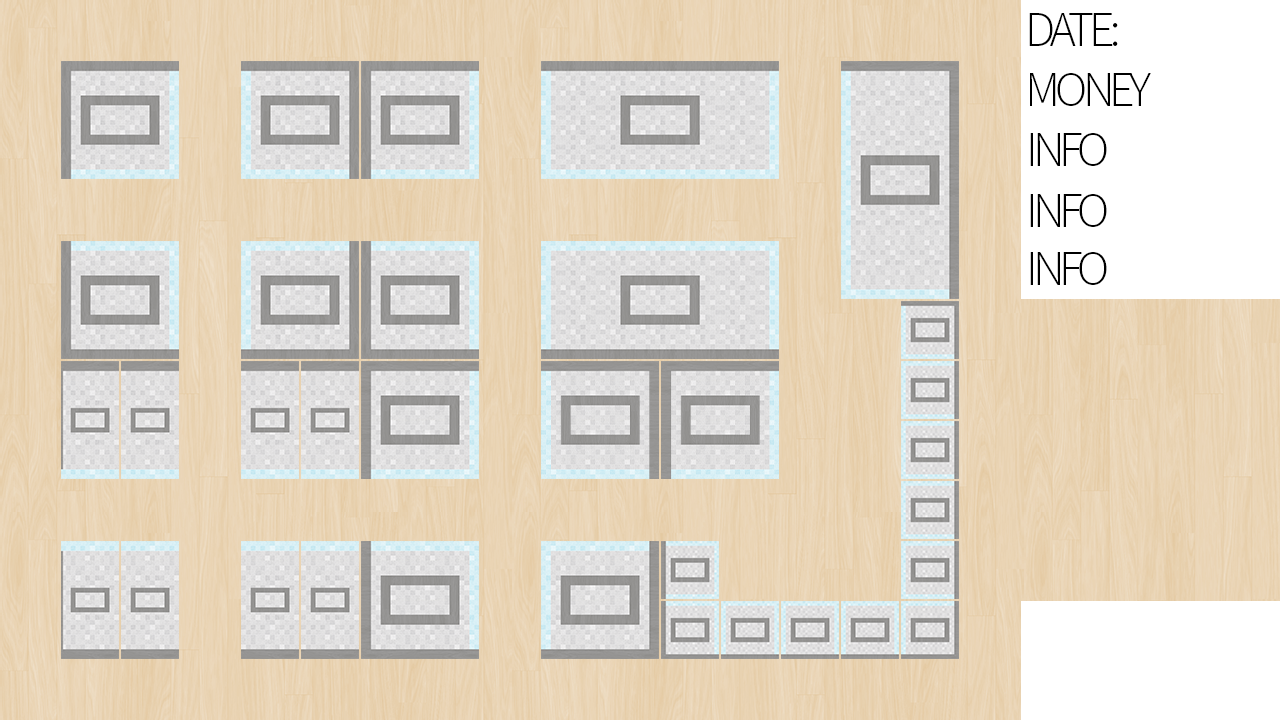
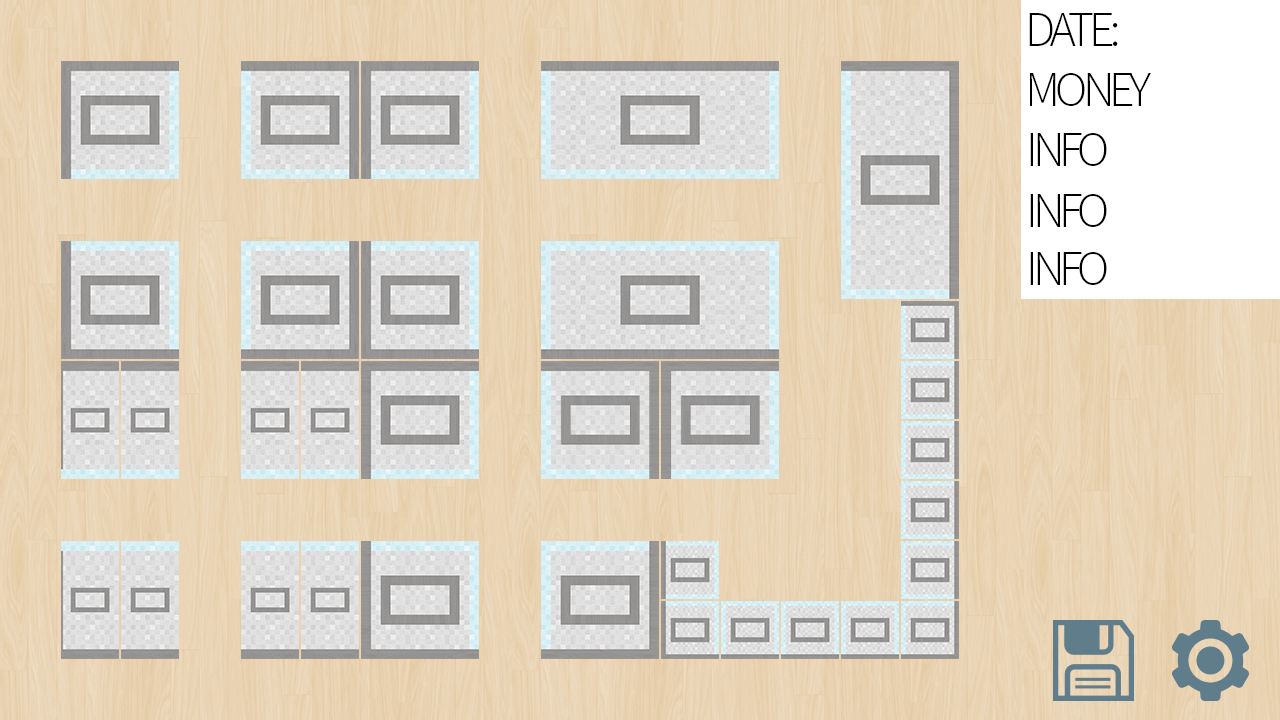
Save Function!

Changed region(s): [[0.7812, 0.825, 1.0, 1.0]]

diff --git a/MallKing.java b/MallKing.java
@@ -25,6 +25,7 @@ public class MallKing extends JPanel
   private static int mouseY;
   private static boolean playGame;
   private static boolean loadGame;
+  private static boolean options;
   private static int cash;
   private static int year;
   private static int month;
@@ -54,18 +55,28 @@ public class MallKing extends JPanel
         if((mouseX>=215&&mouseX<=475&&mouseY>=530&&mouseY<=600)&&!playGame&&!loadGame)
         {
           playGame=true;
-          System.out.println("PLAY");
+          //System.out.println("PLAY");
         }
         if((mouseX>=510&&mouseX<=770&&mouseY>=530&&mouseY<=600)&&!playGame&&!loadGame)
         {
           loadGame=true;
-          System.out.println("LOAD");
+          //System.out.println("LOAD");
         }
         if((mouseX>=805&&mouseX<=1070&&mouseY>=530&&mouseY<=600)&&!playGame&&!loadGame)
         {
+          options=true;
           System.out.println("OPTIONS");
         }
+        if(mallstore[clickX][clickY]==805)
+        {
+          save();
+        }
+        if(mallstore[clickX][clickY]==806)
+        {
+          //settings();
+        }
       }      
+      
     }); 
     try { 
       FileReader fr = new FileReader("StoreList.txt"); 
@@ -83,6 +94,7 @@ public class MallKing extends JPanel
     catch(IOException e) 
     {
     }
+    
   }
   
   public void loading()
@@ -102,8 +114,25 @@ public class MallKing extends JPanel
     {
     }
     loadGame=false;
-    playGame=true;
-    
+    playGame=true; 
+  }
+  
+  public void save()
+  {
+    try { 
+      FileWriter fw = new FileWriter("save1.txt"); 
+      PrintWriter pw = new PrintWriter(fw);
+      pw.println(cash);
+      pw.println(year);
+      pw.println(month);
+      pw.println(day);
+      pw.println(profit);
+      pw.println(balance);
+      pw.println(expenses);
+      pw.close(); 
+    } catch(IOException e) 
+    {
+    }
   }
   
   public void loadstores()
@@ -186,6 +215,7 @@ public class MallKing extends JPanel
         else if(loadGame)
         {
           m.loading();
+          m.loadstores();
         }
         m.repaint(); 
         Thread.sleep(10); 

diff --git a/Options.java b/Options.java
@@ -1,0 +1,28 @@
+import javax.swing.*; 
+import java.awt.*;
+import javax.imageio.*;
+import java.io.*;
+import java.awt.image.BufferedImage;
+import java.io.IOException;
+import javax.imageio.ImageIO;
+import java.awt.event.KeyEvent;
+import java.awt.event.KeyListener;
+public class Options
+{
+  private BufferedImage img = null;
+  public Options()
+  { 
+    try
+      {
+        img = ImageIO.read(new File("StoreCard.png"));
+      } catch (IOException e)
+      {
+        System.out.println("NO IMG");
+      }
+  }
+  public void paint(Graphics2D g2d)
+  {
+      g2d.drawImage(img, 0, 0, null);        
+  }
+}
+  
